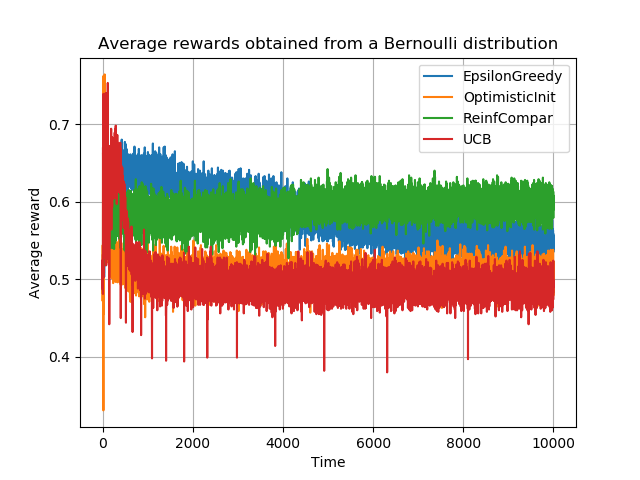
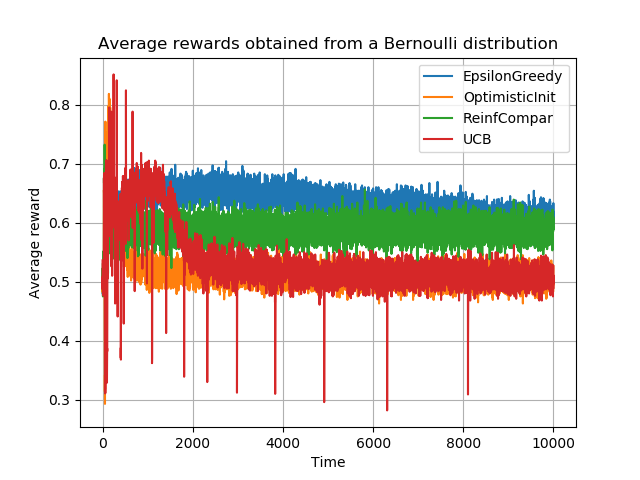
commenting, appended -s to make run and updated readme

diff --git a/src/distrib.cpp b/src/distrib.cpp
@@ -42,7 +42,7 @@ int initializeArms(int K, int distrib, std::vector<double> &arms) {
             }
             break;
         }
-        case 2: {
+        case 2: {      // Bernoulli
             for (int i=0; i<K; i++) {
                 arms[i] = real(generator);
                 if (arms[i] > maxReward) {

diff --git a/src/main.cpp b/src/main.cpp
@@ -30,7 +30,7 @@ int main(int argc, char **argv) {
     } else {
         Params.distrib = arg1;
         Params.algorithm = arg2;
-        Params.K_arms = 10;
+        Params.K_arms = 30;
         Params.epsilon = 0.01;
         Params.optimisticValue = 10;
         Params.exploreDegree = 2;

diff --git a/README.md b/README.md
@@ -10,6 +10,7 @@ If you wish to create all the data at once and show a graph for each problem, ru
 ```
 make all
 ```
+This might take between 5 and 10 minutes, depending on hardware.
 
 ## Project Structure
 * __bin__: The output executables will appear here.
